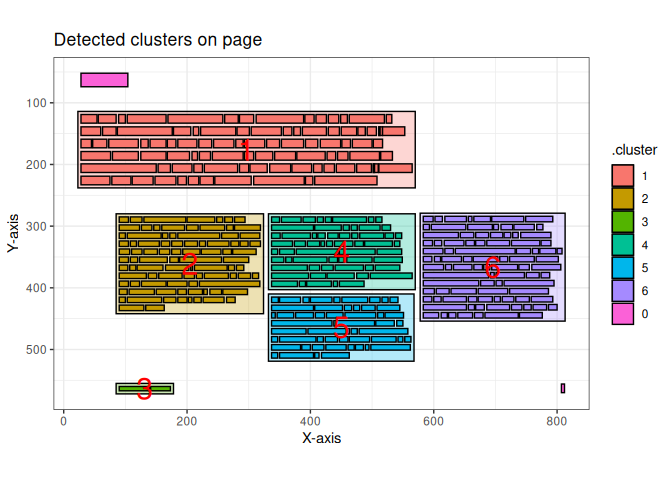
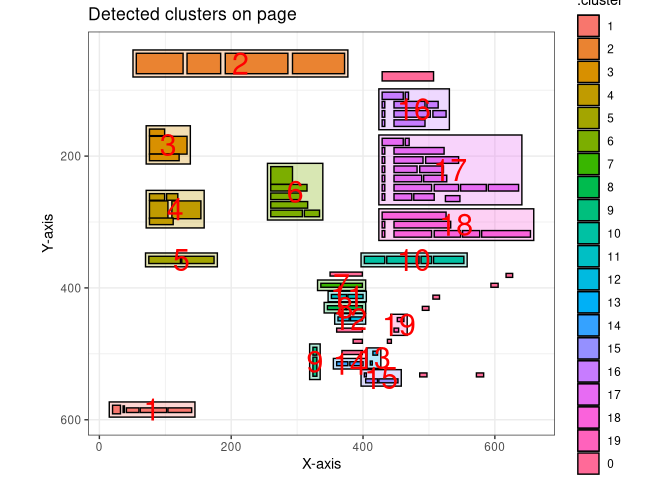
docs: build vignette and README on bundled data
- rewrite the vignette to use the bundled cibap dataset instead of
  downloading a PDF at build time (CRAN-safe, reproducible)
- document the new combine default, noise filtering and verbose option
- add a section on filtering out chart/figure label fragments via
  word_count
- replace the comparison image with a rendered page of the cibap report
  so the image matches the example code
- README: same bundled-data example, re-knitted
- data-raw: note that the npo source URL is no longer available

diff --git a/README.md b/README.md
@@ -42,7 +42,7 @@ The latest version can be found on the development branch. You can
 install it using the function:
 
 ``` r
-devtools::install_github("coeneisma/pdftextclusteR")
+devtools::install_github("coeneisma/pdftextclusteR",
   ref = "development")
 ```
 
@@ -50,42 +50,56 @@ devtools::install_github("coeneisma/pdftextclusteR")
 
 This is a basic example of the capabilities of this package.
 
+This example uses the bundled `cibap` dataset: the report
+*Kwaliteitsagenda 2024-2027 Cibap*, read with `pdftools::pdf_data()`. To
+use your own document, read it the same way:
+`my_document <- pdftools::pdf_data("path/to/document.pdf")`.
+
 ``` r
 library(pdftextclusteR)
-library(pdftools)
 
-# Read a PDF-file with pdftools::pdf_data()
-ka <- pdf_data("https://www.rijksoverheid.nl/binaries/rijksoverheid/documenten/rapporten/2024/06/10/kwaliteitsagenda-2024-2027-mediacollege-amsterdam/Kwaliteitsagenda+2024-2027+Mediacollege+Amsterdam.pdf")
-
-# Detect clusters on the 7th page
-ka_clusters <- ka[[7]] |> 
+# Detect clusters on page 18
+cibap_clusters <- cibap[[18]] |> 
   pdf_detect_clusters()
 
-# Plot clusters on the first page
-ka_clusters |> 
+# Plot the detected clusters
+cibap_clusters |> 
   pdf_plot_clusters()
 ```
 
-<img src="man/figures/README-example-1.png" width="100%" />
+<img src="man/figures/README-example-1.png" alt="" width="100%" />
 
-Compared with the orriginal document it is quite acurate.
+Compared with the original document it is quite accurate.
 
-![](vignettes/images/example_pdf.png) Text can be extracted to do
-further analysis:
+![](vignettes/images/example_pdf.png)
+
+Text can be extracted to do further analysis:
 
 ``` r
-ka_clusters_text <- ka_clusters |> 
+cibap_clusters_text <- cibap_clusters |> 
   pdf_extract_clusters()
 
-ka_clusters_text
-#> # A tibble: 7 × 3
-#>   .cluster word_count text                                                      
-#>   <fct>         <int> <chr>                                                     
-#> 1 0                 2 "Inleiding\n 7\n"                                         
-#> 2 1                89 "Waar liggen de belangrijkste ontwikkelopgaven voor onze …
-#> 3 2                89 "Met deze Kwaliteitsagenda 2024-2027 wil MA haar\n ambiti…
-#> 4 3                 3 "Kwaliteitsagenda 2024-2027\n"                            
-#> 5 4                63 "We bouwen voort op de doelstellingen uit de\n Kwaliteits…
-#> 6 5                53 "De strategie en daarmee de prioriteiten voor de MA\n Kwa…
-#> 7 6                93 "Ook het werkveld is binnen verschillende overleggen\n en…
+cibap_clusters_text
+#> # A tibble: 19 × 3
+#>    .cluster word_count text                                                     
+#>    <fct>         <int> <chr>                                                    
+#>  1 2                 4 "Facts and figures Cibap\n"                              
+#>  2 16                7 "niveau 3\n • Filmmaker (AV)\n • Mediamaker (dtp)\n • Si…
+#>  3 3                 3 "Circa\n 1650\n studenten\n"                             
+#>  4 17               16 "niveau 4\n • Mediavormgever\n • Ruimtelijk Vormgever\n …
+#>  5 6                 8 "7,6\n Beoordeling\n studenten\n job-monitor\n onderzoek…
+#>  6 4                 5 "Meer dan\n 65 jaar\n ervaring\n"                        
+#>  7 18                6 "excellentietrajecten\n • Restauratieschilder\n • Intern…
+#>  8 5                 2 "Herkomst studenten\n"                                   
+#>  9 10                4 "Aantal studenten per opleiding\n"                       
+#> 10 7                 2 "Ruimtelijk vormgever\n"                                 
+#> 11 11                2 "Creatief vakman\n"                                      
+#> 12 8                 2 "Specialist Schilder\n"                                  
+#> 13 12                2 "Media Maker\n"                                          
+#> 14 19                2 "106\n 96\n"                                             
+#> 15 9                 2 "Opleiding kort\n"                                       
+#> 16 1                 5 "18 | Cibap werkagenda 2024-2027\n"                      
+#> 17 14                2 "Social Design\n"                                        
+#> 18 13                2 "19\n 8\n"                                               
+#> 19 15                3 "0\n Aantal studenten\n"
 ```
